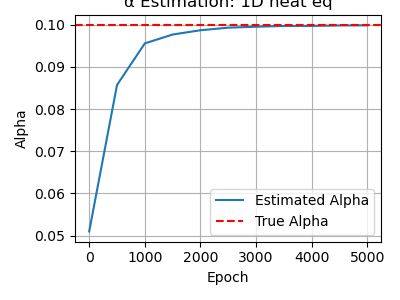
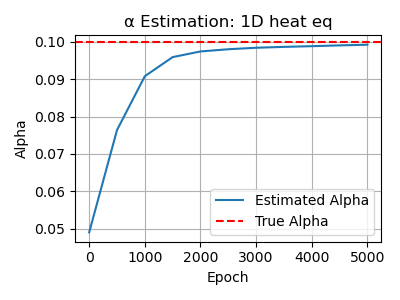
up

Changed region(s): [[0.03, 0.0, 0.96, 0.81], [0.93, 0.63, 0.96, 0.66]]

diff --git a/train_and_inversion.py b/train_and_inversion.py
@@ -4,12 +4,20 @@ import matplotlib.pyplot as plt
 from noise_generator import generate_noisy_data
 
 
-def train_pinn(pinn, params, exact_solution, inversion=False, with_source=False):
+def train_inversion(pinn, params, exact_solution, inversion=False, with_source=False):
     """
-    Trains the PINN model
+    Trains the PINN model and performes inversion if True
+
     Args:
     - pinn: The initialized FCN model.
-    - params: A dictionary of parameters loaded from params.yaml.
+    - params: A dictionary of parameters loaded from params.yaml
+    - exact_solution: Analytical solution of 
+      1D heat equation or 1D heat equation with source term
+    - inversion (boolean): Determines if to perform inversion
+    - with_source (boolean): Checks if soulution has source
+
+    Returns:
+    - Plots 
     """
 
     if inversion:
@@ -72,7 +80,7 @@ def train_pinn(pinn, params, exact_solution, inversion=False, with_source=False)
     lambda_pde = params['hyperparameters']['lambda_pde']
     lambda_ic = params['hyperparameters']['lambda_ic']
     lambda_data = params['hyperparameters']['lambda_data']
-    optimizer = torch.optim.Adam(pinn.parameters(), lr=1e-3)
+    optimizer = torch.optim.AdamW(pinn.parameters(), lr=1e-3) # Adam or AdamW
 
     # Training
     for epoch in range(5001):
@@ -97,12 +105,14 @@ def train_pinn(pinn, params, exact_solution, inversion=False, with_source=False)
         if inversion:
             loss_data = torch.mean((u - U_noisy_torch)**2)
             if with_source:
-                loss_pde = torch.mean((u_t - pinn.alpha * u_xx - 1)**2) # source term -1
+                loss_pde = torch.mean((u_t - pinn.alpha * u_xx - 1)**2) # subtract source term -1
             else:   # Data loss comparing with noisy data
-                
                 loss_pde = torch.mean((u_t - pinn.alpha * u_xx)**2)
         else:
-            loss_pde = torch.mean((u_t - alpha_true * u_xx)**2)
+            if with_source:
+                loss_pde = torch.max((u_t - alpha_true * u_xx - 1)**2) # subtract source term -1
+            else:
+                loss_pde = torch.max((u_t - alpha_true * u_xx)**2)
 
         # Total loss
         loss = (lambda_bc * loss_bc +
@@ -137,21 +147,24 @@ def train_pinn(pinn, params, exact_solution, inversion=False, with_source=False)
                 plt.plot(x_test, u_pred, label="PINN Solution", color="blue")
                 plt.grid()
                 plt.legend()
-                plt.tight_layout()
 
                 if with_source:
                     if inversion:
                         plt.title(f"Epoch {epoch}, inversion: 1D heat eq + source")
+                        plt.tight_layout()
                         plt.savefig(f"plots/source/inversion/heat_eq_inv_source_epoch{epoch}.png")
                     else:
                         plt.title(f"Epoch {epoch}, training: 1D heat eq + source")
+                        plt.tight_layout()
                         plt.savefig(f"plots/source/training/heat_eq_source_epoch{epoch}.png")
                 else:
                     if inversion:
                         plt.title(f"Epoch {epoch}, inversion: 1D heat eq")
+                        plt.tight_layout()
                         plt.savefig(f"plots/nosource/inversion/heat_eq_inv_epoch{epoch}.png")
                     else:
                         plt.title(f"Epoch {epoch}, training: 1D heat eq")
+                        plt.tight_layout()
                         plt.savefig(f"plots/nosource/training/heat_eq_train_epoch{epoch}.png")
 
                 plt.close()
@@ -165,13 +178,14 @@ def train_pinn(pinn, params, exact_solution, inversion=False, with_source=False)
         plt.ylabel('Alpha')
         plt.grid()
         plt.legend()
-        plt.tight_layout()
 
         if with_source:
             plt.title('α estimation: 1D heat eq + source')
+            plt.tight_layout()
             plt.savefig("plots/source/alpha_estimate.png")
         else:
             plt.title('α Estimation: 1D heat eq')
+            plt.tight_layout()
             plt.savefig("plots/nosource/alpha_estimate.png")
             
         plt.close()

diff --git a/main.py b/main.py
@@ -3,7 +3,7 @@ import torch
 import numpy as np
 
 from models import FCN
-from training import train_pinn
+from train_and_inversion import train_inversion
 from analytical_solution import heat_eq_1D, heat_eq_1D_with_source
 
 
@@ -15,6 +15,9 @@ def load_params():
         return yaml.safe_load(file)
     
 def get_exact_solution():
+    """
+    Gets equation type and sets with_source value
+    """
     params = load_params()
     solution_type = params['equation']['type']
     if solution_type == "heat_eq_1D":
@@ -22,10 +25,13 @@ def get_exact_solution():
     elif solution_type == "heat_eq_1D_with_source":
         return heat_eq_1D_with_source, True
     else:
-        raise ValueError("Invalid solution type specified in params.yaml")
+        raise ValueError("Invalid solution type.")
 
 def main():
-
+    """
+    Trains pinn and does the parameter inversion
+    """
+    # Load parameters and equation type
     params = load_params()
     exact_solution_func, with_source = get_exact_solution()
 
@@ -37,11 +43,11 @@ def main():
     # Initialize PINN model
     pinn = FCN(**params['model_params'], inversion=False)
     
-    # Train PINN with the selected exact solution
+    # Train PINN
     print("==============================")
     print("\tTraining PINN")
     print("==============================")
-    train_pinn(pinn, params,
+    train_inversion(pinn, params,
                exact_solution=exact_solution_func,
                inversion=False,
                with_source=with_source)
@@ -51,7 +57,7 @@ def main():
     print("==============================")
     print("\tPINN inversion")
     print("==============================")
-    train_pinn(pinn_inversion, params,
+    train_inversion(pinn_inversion, params,
                exact_solution=exact_solution_func,
                inversion=True,
                with_source=with_source)

diff --git a/analytical_solution.py b/analytical_solution.py
@@ -17,6 +17,7 @@ def heat_eq_1D(x, t, alpha):
     Returns:
     - Solution tensor
     """
+    
     return torch.exp(-np.pi**2 * alpha * t) * torch.sin(np.pi * x)
 
 def heat_eq_1D_with_source(x, t, alpha):
@@ -25,17 +26,19 @@ def heat_eq_1D_with_source(x, t, alpha):
     With boundary conditions:
     - u(x, 0) = sin(pi x) / (alpha * pi^2 + 1)
     - u(0, t) = u(1, t) = 0
-    And a source term f(x, t) = 1.
+    And a source term f(x, t) = 1
+
     Args:
     - t: time
     - x: position
     - alpha: thermal diffusivity
+
     Returns:
     - Solution tensor
     """
 
-    # The analytical solution with the source term included
-    term_1 = (torch.sin(np.pi * x) / (alpha * np.pi**2 + 1)) * (1 - torch.exp(-(alpha * np.pi**2 + 1) * t))
-    term_2 = 1 / (alpha * np.pi**2 + 1)
+    # The analytical solution with source term
+    term_1 = torch.exp(-np.pi**2 * alpha * t) * torch.sin(np.pi * x)
+    term_2 = (1 - torch.exp(-t)) * (x - x**2)  # Ensures boundaries to be 0
 
     return term_1 + term_2

diff --git a/models.py b/models.py
@@ -16,18 +16,16 @@ class FCN(nn.Module):
         super().__init__()
         activation = nn.Tanh
         self.fcs = nn.Sequential(
-            nn.Linear(N_INPUT, N_HIDDEN),
-            activation())
+            nn.Linear(N_INPUT, N_HIDDEN), activation())
         self.fch = nn.Sequential(*[
             nn.Sequential(
-                nn.Linear(N_HIDDEN, N_HIDDEN),
-                activation())
+                nn.Linear(N_HIDDEN, N_HIDDEN), activation())
             for _ in range(N_LAYERS - 1)]
         )
         self.fce = nn.Linear(N_HIDDEN, N_OUTPUT)
 
         if inversion:
-            # Learnable parameter for alpha
+            # Learnable parameter alpha
             self.alpha = nn.Parameter(torch.tensor(0.05, dtype=torch.float32))
 
     def forward(self, x):

diff --git a/noise_generator.py b/noise_generator.py
@@ -2,10 +2,10 @@ import torch
 import numpy as np
 
 
-# Generate noisy experimental data
+# Generate experimental data with Gaussian noise 
 def generate_noisy_data(alpha_true=0.1, noise_level=0.05, equation=None):
 
-    # Create grid of points
+    # Grid points
     x = torch.linspace(0, 1, 50)
     t = torch.linspace(0, 1, 50)
     X, T = torch.meshgrid(x, t, indexing='ij')

diff --git a/README.md b/README.md
@@ -14,3 +14,4 @@ $$u(0,t)=u(1,t)=0$$
 
 Then the analytical solution is:
 $$u(x,t)=e^{−\pi^2 \alpha t} \sin(\pi x)$$
+
